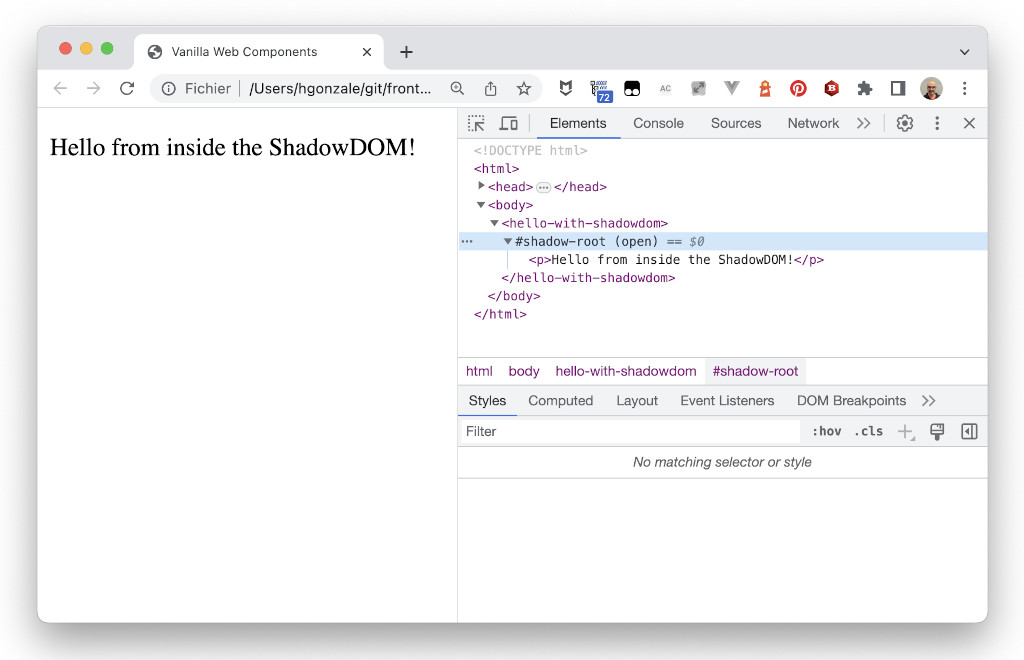
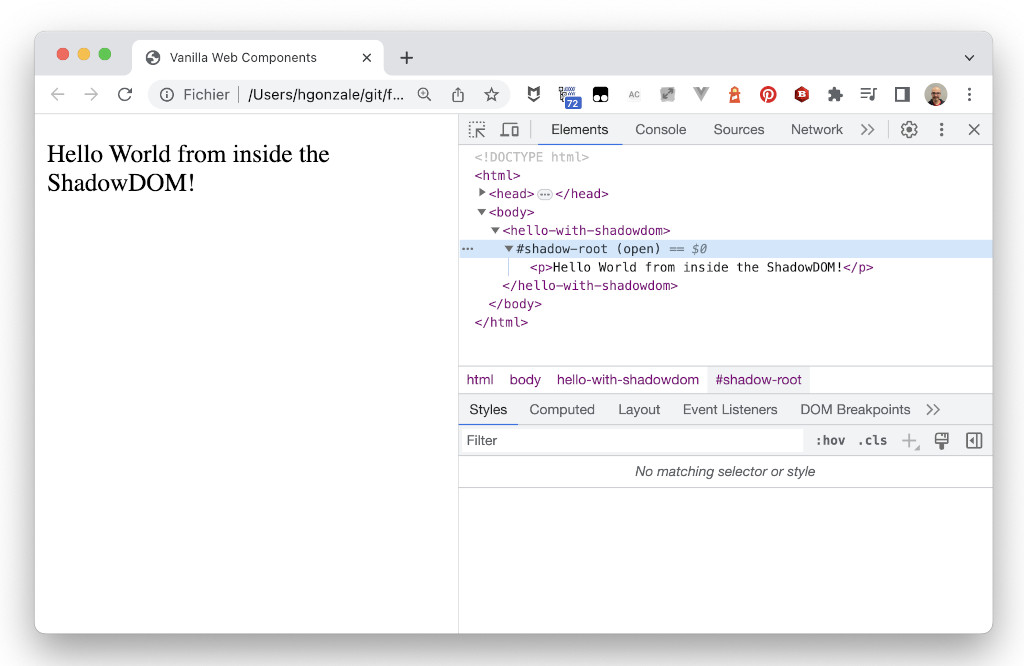
Step 01 - Vanilla Web Components

Changed region(s): [[0.0312, 0.0303, 0.9688, 0.9697]]

diff --git a/step-01/src/hello-with-template.js b/step-01/src/hello-with-template.js
@@ -1,24 +1,21 @@
-class HelloWorldWithTemplate extends HTMLElement {
+
+class HelloWithTemplate extends HTMLElement {
     
   // This gets called when the HTML parser sees your tag
   constructor() {
     super(); // always call super() first in the ctor.
-
-    const template = document.createElement('template');
-    template.innerHTML = `
-        <p>Hello <slot></slot>!</p>
+    this.template = document.createElement('template');
+    this.template.innerHTML = `
+        <p>Hello <slot></slot> with templates!</p>
     `;
-
-    let templateContent = template.content;
-
-    const shadowRoot = this.attachShadow({ mode: "open" });
-    this..appendChild(templateContent.cloneNode(true));
-
+    this.attachShadow({ mode: 'open' });
   }
   // Called when your element is inserted in the DOM or
   // immediately after the constructor if it’s already in the DOM
   connectedCallback() {
+    let templateContent = this.template.content;
+    this.shadowRoot.appendChild(templateContent.cloneNode(true));
   }
 }
 
-customElements.define('hello-world-with-template', HelloWorldWithTemplate);
+customElements.define('hello-with-template', HelloWithTemplate);

diff --git a/step-01/src/index.html b/step-01/src/index.html
@@ -5,6 +5,7 @@
     <script src="./hello-world.js"></script>
     <script src="./hello-lifecycle-callbacks.js"></script>
     <script src="./hello-with-shadowdom.js"></script>
+    <script src="./hello-with-template.js"></script>
   </head>
   <body>
     <hello-world></hello-world>
@@ -12,6 +13,8 @@
     <hello-lifecycle-callbacks id="lifecycle-callbacks"></hello-lifecycle-callbacks>
     
     <hello-with-shadowdom></hello-with-shadowdom>
+
+    <hello-with-template>World</hello-with-template>
 
     <script>
       document.getElementById('lifecycle-callbacks')

diff --git a/step-01/src/hello-with-shadowdom.js b/step-01/src/hello-with-shadowdom.js
@@ -3,7 +3,7 @@ class HelloWithShadowdom extends HTMLElement {
   // This gets called when the HTML parser sees your tag
   constructor() {
     super(); // always call super() first in the ctor.
-    this.msg = 'Hello from inside the ShadowDOM!';
+    this.msg = 'Hello World from inside the ShadowDOM!';
     this.attachShadow({ mode: 'open' });
   }
   // Called when your element is inserted in the DOM or

diff --git a/step-01/README.md b/step-01/README.md
@@ -5,7 +5,7 @@
 We can define a new Custom Elements by extending the `HTMLElement` class:
 
 
-`hello-world.js`
+File `src/hello-world.js`
 ```javascript
 class HelloWorld extends HTMLElement {
     
@@ -26,7 +26,8 @@ customElements.define('hello-world', HelloWorld);
 
 And to use it, we simply load the JS file to get the Custom Element definition and we can us eit as any other HTML tag:
 
-`index.html`
+
+File `src/index.html`
 ```html
 <!DOCTYPE html>
 <html>
@@ -58,7 +59,8 @@ There are 4 different lifecycle callbacks built-in the Custom Element definition
 
 Let's create a Custom Element to show all these callbacks:
 
-`hello-lifecycle-callbacks.js`
+
+File `src/hello-lifecycle-callbacks.js`
 ```javascript
 class HelloLifecycleCallbacks extends HTMLElement {
   constructor() {
@@ -94,7 +96,8 @@ customElements.define('hello-lifecycle-callbacks', HelloLifecycleCallbacks);
 
 And let's add a HTML file that loads the element, and modifies the `hello` attribute:
 
-`index.html`
+
+File `src/index.html`
 ```html
 <!DOCTYPE html>
 <html>
@@ -125,7 +128,8 @@ The ShadowDOM is one of the most powerful and at the same time less understood p
 
 Lets begin with a small example:
 
-`hello-with-shadowdom`
+
+File `src/hello-with-shadowdom`
 ```javascript
 class HelloWithShadowdom extends HTMLElement {
     
@@ -145,7 +149,9 @@ class HelloWithShadowdom extends HTMLElement {
 customElements.define('hello-with-shadowdom', HelloElementWithShadowdom);
 ```
 
-`index.html`
+And let's add a HTML file that loads the element:
+
+File `src/index.html`
 ```html
 <!DOCTYPE html>
 <html>
@@ -164,3 +170,56 @@ customElements.define('hello-with-shadowdom', HelloElementWithShadowdom);
 And we can test on the browser:
 
 [![Hello With ShadowDOM Custom Element in action](./img/hello-with-shadowdom-1024.jpg)](./img/hello-with-shadowdom.png)
+
+
+## Templates
+
+In this first examples, we aren't using templates, we are directly injecting the HTML inside the Custom Element. Let's modify our `hello-with-shadowdom` to make it use a template:
+
+File: `src/hello-with-template`
+```javascript
+class HelloWithTemplate extends HTMLElement {
+    
+  // This gets called when the HTML parser sees your tag
+  constructor() {
+    super(); // always call super() first in the ctor.
+    this.template = document.createElement('template');
+    this.template.innerHTML = `
+        <p>Hello <slot></slot> with templates!</p>
+    `;
+    this.attachShadow({ mode: 'open' });
+  }
+  // Called when your element is inserted in the DOM or
+  // immediately after the constructor if it’s already in the DOM
+  connectedCallback() {
+    let templateContent = this.template.content;
+    this.shadowRoot.appendChild(templateContent.cloneNode(true));
+  }
+}
+
+customElements.define('hello-with-template', HelloWithTemplate);
+```
+
+
+And let's add a HTML file that loads the element:
+
+File `src/index.html`
+```html
+<!DOCTYPE html>
+<html>
+  <head>
+    <title>Vanilla Web Components</title>
+    <script src="./hello-with-template.js"></script>
+  </head>
+  <body>
+
+    <hello-with-template>World</hello-with-template>
+
+  </body>
+</html>
+```
+
+And we can test on the browser:
+
+[![Hello With Template Custom Element in action](./img/hello-with-template-1024.jpg)](./img/hello-with-template.png)
+
